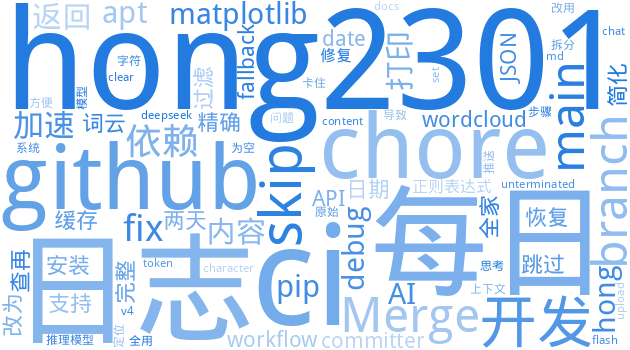
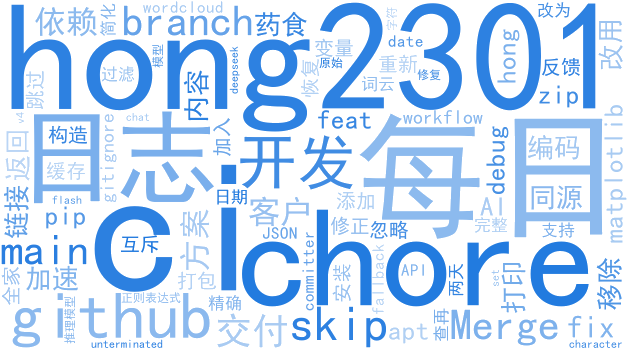
docs: 19号完整版日志(35条提交)词云+存档

diff --git a/logs/2026-08-19/日志.md b/logs/2026-08-19/日志.md
@@ -1,10 +1,8 @@
 <h1 style="color:#58a6ff">2026年8月19日日志</h1>
 
 
-　　今天主要围绕每日日志自动化 workflow 进行调优。凌晨时段集中处理 CI 依赖问题：先缓存 pip/apt 加速安装，随后尝试跳过 matplotlib 以提速，但因词云功能依赖该库又恢复完整依赖。接着修复 GitHub API 日期查询精度问题，改为拆分两天查询再过滤；简化 JSON fallback 正则，修复字符集未闭合错误。通过打印 AI 返回内容定位到 deepseek-v4-flash 推理模型 token 全用于思考导致 content 为空，改用 deepseek-chat 模型解决。下午将系统上下文文档设为可推送，并多次生成每日开发日志。整体以 CI 调试和问题修复为主，节奏紧凑，效率尚可。
+　　今天主要推进两个客户项目。京东订单数据工具项目根据客户反馈，将药食同源编码从互斥方案调整为合并一二级方案，并补充了参考论文方法与调节效应框架说明；完成交付包配置但移除了zip文件，改用.gitignore忽略。Indiegogo评论采集项目新增元数据模式和空白页预处理，全量生成了交付任务清单。个人仓库方面，优化了每日日志工作流的依赖缓存和安装步骤，修复了GitHub API日期过滤、JSON正则和AI模型选择问题，调试了AI返回异常。整体处于项目交付和工具链打磨阶段，白天工作节奏较稳，凌晨花了不少时间解决CI细节问题。
 
----
-
-<div align="center"><img src="wordcloud.png?v=20260819" width="49%" style="vertical-align:middle" alt="提交词云"/> &nbsp; <img src="pie.svg?v=20260819" width="32.7%" style="vertical-align:middle" alt="提交时间分布"/></div>
+<table align="center"><tr><td><img src="wordcloud.png?v=20260819" width="630" alt="提交词云"/></td><td><img src="pie.svg?v=20260819" width="350" alt="提交时间分布"/></td></tr></table>
 
 📚 [查看历史日志](./logs/)

diff --git a/README.md b/README.md
@@ -1,8 +1,8 @@
 <h1 style="color:#58a6ff">2026年8月19日日志</h1>
 
 
-　　今天主要围绕每日日志自动化 workflow 进行调优。凌晨时段集中处理 CI 依赖问题：先缓存 pip/apt 加速安装，随后尝试跳过 matplotlib 以提速，但因词云功能依赖该库又恢复完整依赖。接着修复 GitHub API 日期查询精度问题，改为拆分两天查询再过滤；简化 JSON fallback 正则，修复字符集未闭合错误。通过打印 AI 返回内容定位到 deepseek-v4-flash 推理模型 token 全用于思考导致 content 为空，改用 deepseek-chat 模型解决。下午将系统上下文文档设为可推送，并多次生成每日开发日志。整体以 CI 调试和问题修复为主，节奏紧凑，效率尚可。
+　　今天主要推进两个客户项目。京东订单数据工具项目根据客户反馈，将药食同源编码从互斥方案调整为合并一二级方案，并补充了参考论文方法与调节效应框架说明；完成交付包配置但移除了zip文件，改用.gitignore忽略。Indiegogo评论采集项目新增元数据模式和空白页预处理，全量生成了交付任务清单。个人仓库方面，优化了每日日志工作流的依赖缓存和安装步骤，修复了GitHub API日期过滤、JSON正则和AI模型选择问题，调试了AI返回异常。整体处于项目交付和工具链打磨阶段，白天工作节奏较稳，凌晨花了不少时间解决CI细节问题。
 
-<table align="center"><tr><td><img src="wordcloud.png?v=20260820" width="630" alt="提交词云"/></td><td><img src="pie.svg?v=20260820" width="350" alt="提交时间分布"/></td></tr></table>
+<table align="center"><tr><td><img src="wordcloud.png?v=20260819" width="630" alt="提交词云"/></td><td><img src="pie.svg?v=20260819" width="350" alt="提交时间分布"/></td></tr></table>
 
 📚 [查看历史日志](./logs/)
